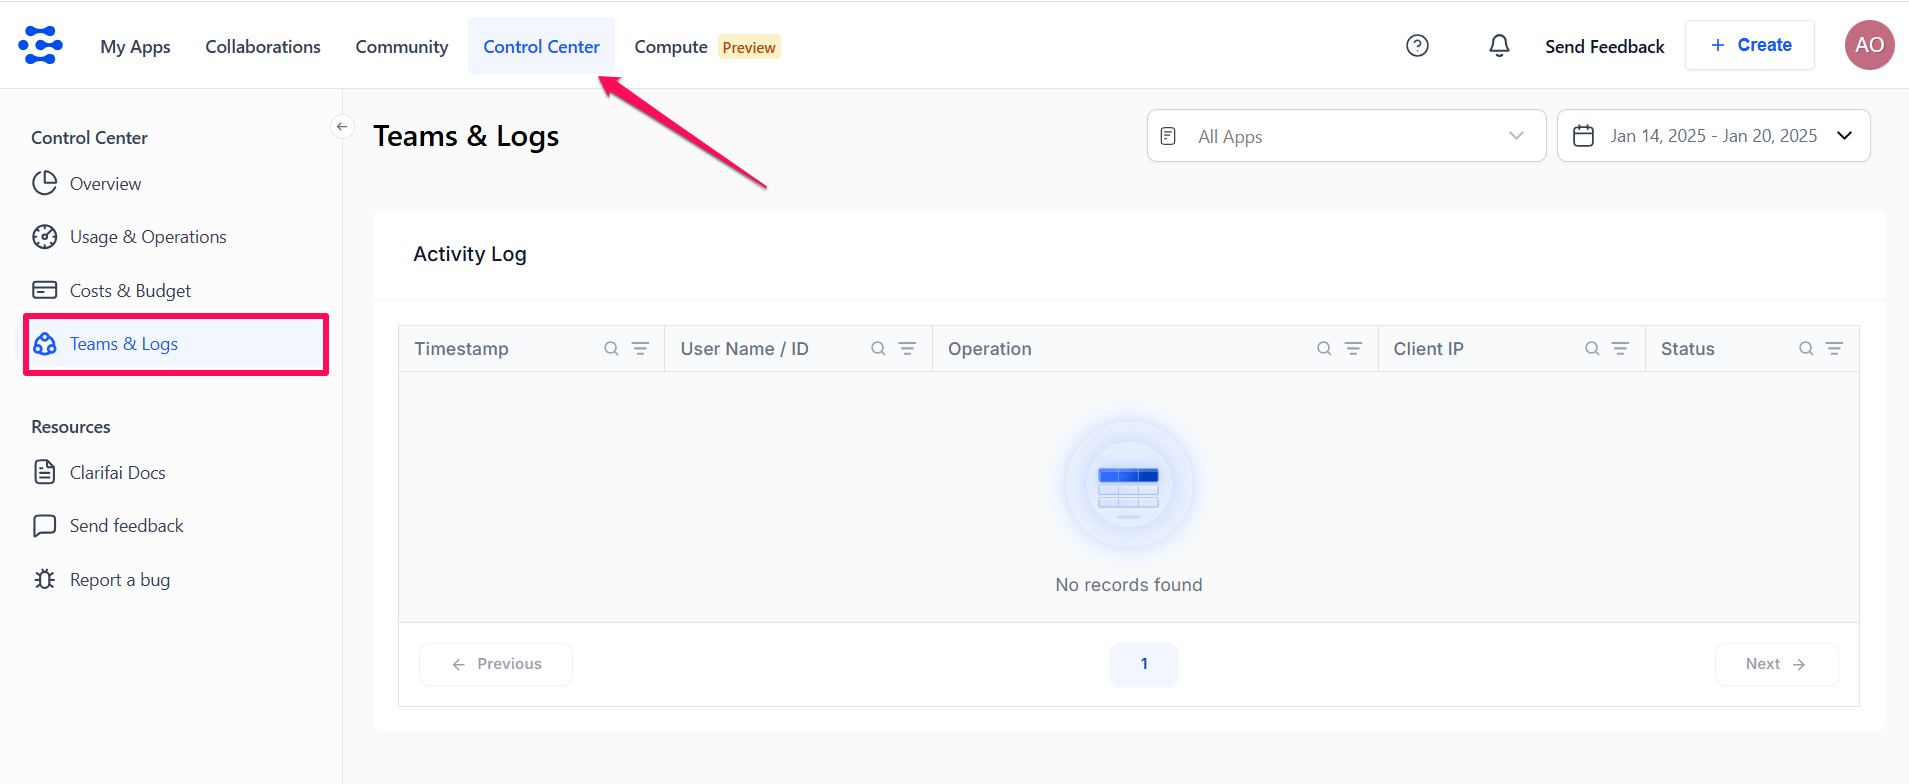
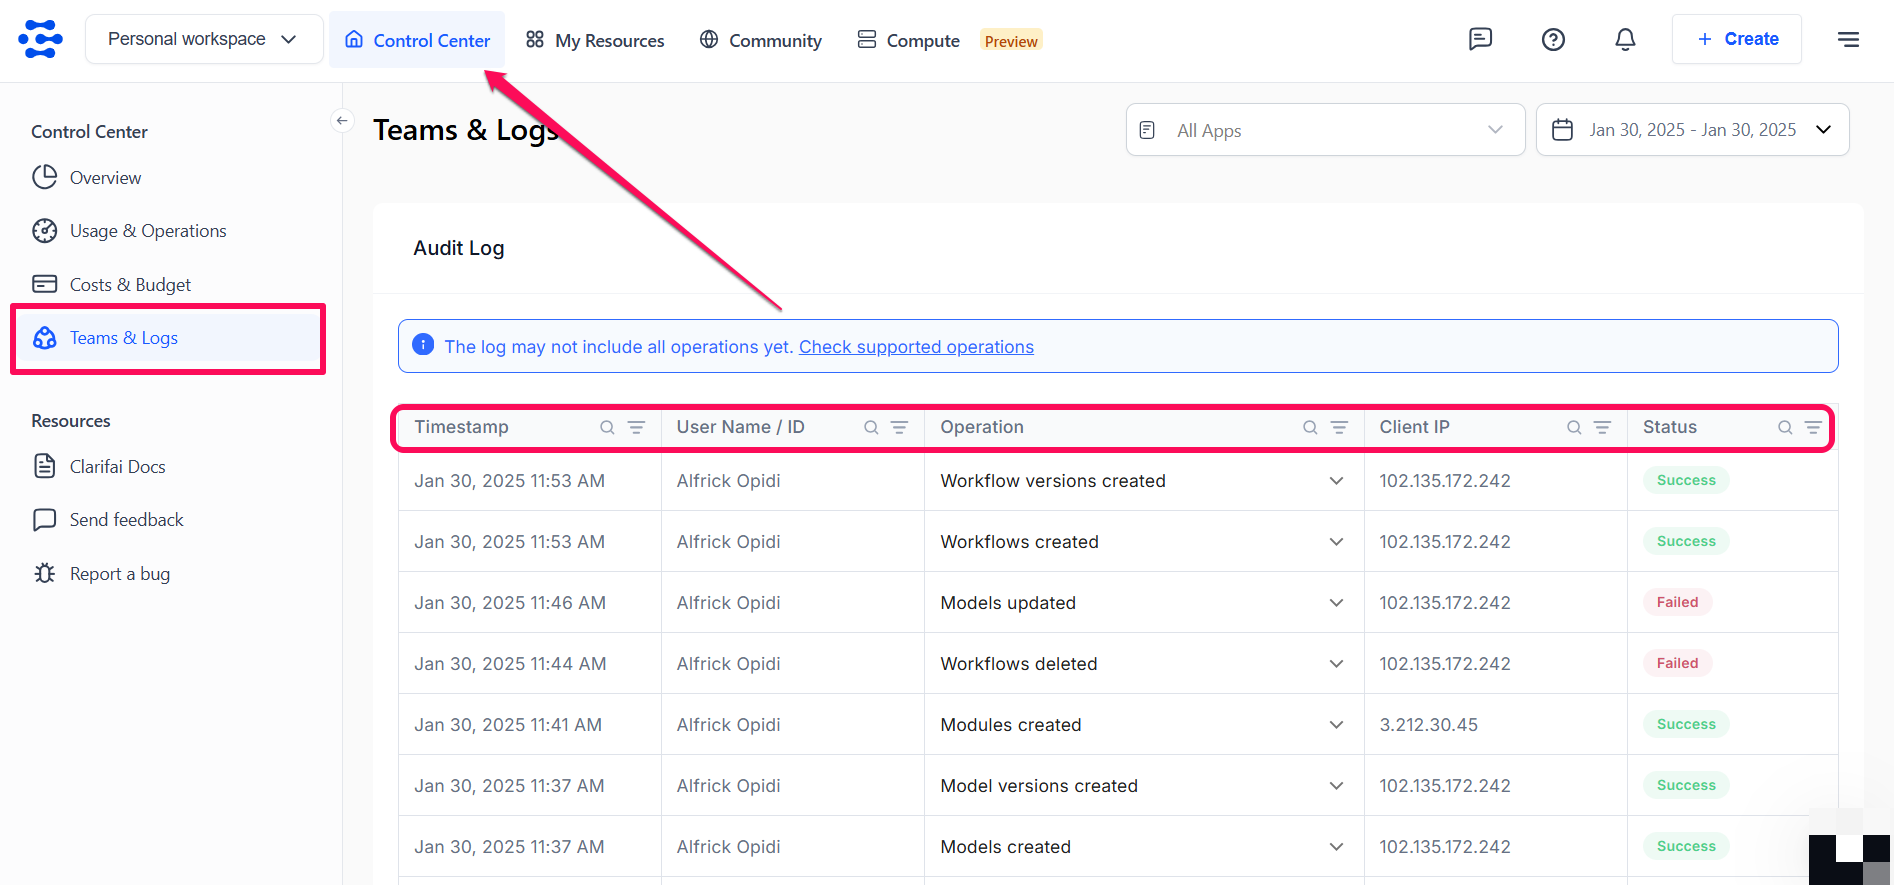
made updates

diff --git a/code_snippets/python-sdk/inference/visual_d_video.py b/code_snippets/python-sdk/inference/visual_d_video.py
@@ -6,9 +6,9 @@ from clarifai.client.model import Model
 USER_ID = "clarifai"
 APP_ID = "main"
 # Change these to whatever model and video URL you want to use
-MODEL_ID = "general-image-recognition"
+MODEL_ID = "general-image-detection"
 # You can also set a particular model version by specifying the  version ID
-# eg: MODEL_VERSION_ID = 'aa7f35c01e0642fda5cf400f543e7c40'
+# eg: MODEL_VERSION_ID = '1580bb1932594c93b7e2e04456af7c6f'
 
 VIDEO_URL = "https://samples.clarifai.com/beer.mp4"
 # Change this to configure the FPS rate (If it's not configured, it defaults to 1 FPS)
@@ -18,13 +18,13 @@ VIDEO_URL = "https://samples.clarifai.com/beer.mp4"
 SAMPLE_MS = 2000
 
 # Model class objects can be inititalised by providing its URL or also by defining respective user_id, app_id and model_id
-# eg: model = Model("https://clarifai.com/clarifai/main/models/general-image-recognition")
+# eg: model = Model("https://clarifai.com/clarifai/main/models/general-image-detection")
 
 
 model = Model(user_id="clarifai", app_id="main", model_id=MODEL_ID, pat="YOUR_PAT")
 output_config = {"sample_ms": SAMPLE_MS}  # Run inference every 2 seconds
 model_prediction = model.predict_by_url(
-    BEER_VIDEO_URL, input_type="video", output_config=output_config
+    VIDEO_URL, input_type="video", output_config=output_config
 )
 
 # The predict API gives flexibility to generate predictions for data provided through filepath, URL and bytes format.

diff --git a/docs/portal-guide/control-center/teams-logs.md b/docs/portal-guide/control-center/teams-logs.md
@@ -2,7 +2,7 @@
 description: Gain insights into platform activities with enhanced visibility, security, and governance
 pagination_next: null
 sidebar_position: 3
-draft: true
+unlisted: true
 ---
 
 # Teams & Logs Tab
@@ -14,16 +14,7 @@ The Teams & Logs tab allows you to monitor platform operations by capturing deta
 
 It provides the ability to assess user actions and resource changes, identify potential security issues, maintain comprehensive logs to meet regulatory requirements, and monitor request origins to troubleshoot failed operations effectively.  
 
-You can use the tab to track the following critical resource operations (_we're planning to support more resources in the future_):
-
-- **Organization and team membership activities** — Includes creating, updating, or deleting organizations and teams, sending invitations, and managing team users and applications.  
-- **Module activities** — Tracks the creation, updating, and deletion of modules. 
-- **Model activities** — Tracks actions such as creating, training, publishing, and deleting models.  
-- **Workflow activities** — Covers the creation, publishing, updating, and deletion of workflows.  
-- **Application activities** — Includes creating, updating, duplicating, and deleting applications.  
-- **Collaborator activities** — Includes adding collaborators, editing their scopes, and removing them. 
-
-:::note
+:::tip
 
 [Click here](https://docs.clarifai.com/api-guide/audit-log/) to learn how to perform audit tracking via the API. 
 
@@ -31,13 +22,25 @@ You can use the tab to track the following critical resource operations (_we're 
 
 :::info
 
-This feature is currently only available to users on our **Professional** and **Enterprise**  subscription [plans](https://www.clarifai.com/pricing). 
+This feature is currently only available to users on our Professional and Enterprise subscription [plans](https://www.clarifai.com/pricing). 
 
 :::
 
-<br/>
+## Supported Operations
 
-To access the tab, go to the Control Center and select the Teams & Logs option in the collapsible left sidebar.
+You can use the Teams & Logs tab to track the following critical resource operations (_we're planning to support more resources in the future_):
+
+- **Organization and team membership activities** — Includes creating, updating, or deleting organizations and teams, sending invitations, and managing team users and applications.  
+- **Collaborator activities** — Includes adding collaborators, editing their scopes, and removing them. 
+- **Application activities** — Includes creating, updating, duplicating, and deleting applications. 
+- **Model activities** — Tracks actions such as creating, training, publishing, and deleting models. 
+- **Workflow activities** — Covers the creation, publishing, updating, and deletion of workflows.  
+- **Module activities** — Tracks the creation, updating, and deletion of modules. 
+
+
+## Audit Log Details
+
+To access the tab, go to the Control Center and select the **Teams & Logs** option in the collapsible left sidebar.
 
 ![](/img/community/control-center/teams_logs_1.png)
 
@@ -45,17 +48,28 @@ You can get details of the following activity logs:
 
 - **When** — Timestamp of the operation.  
 - **Who** — Identity of the user performing the action.  
-- **What** — Description of the operation.  
+- **What** — Description of the operation. Note that if you 
 - **Where** — IP address where the request originated from.  
 - **Status** — Success or failure results of the operation.  
+
+## Filter by Apps 
 
 By default, the page displays activities across all your apps. You can customize the view by selecting specific app(s) using the dropdown menu in the upper-right corner.
 
 ![](/img/community/control-center/teams_logs_2.png)
 
-Additionally, you can filter and view data for specific time periods using the date range selector in the upper-right corner. If you click the tool, a calendar will drop down, which allows you to specify a date range to narrow down the activity logs. 
+## Filter by Dates
+
+You can filter and view data for specific time periods using the date range selector in the upper-right corner. If you click the tool, a calendar will drop down, which allows you to specify a date range to narrow down the activity logs. _Note that the current date is not selected by default._ 
 
 You can learn more about the date range tool [here](https://docs.clarifai.com/portal-guide/control-center/#date-ranges). 
 
 ![](/img/community/control-center/teams_logs_3.png)
 
+## Collapsible Operation Details
+
+The **Operation** column includes collapsible fields that allow you to expand or collapse details for each logged event. When expanded, the field reveals additional information about the specific action taken and the IDs of the resources impacted. 
+
+Conversely, when collapsed, only a summarized description of the operation is visible, helping to maintain a cleaner and more organized view of the logs. You can toggle this view by clicking the small arrow icon next to each operation entry.
+
+![](/img/community/control-center/teams_logs_4.png)

diff --git a/docs/portal-guide/clarifai-organizations/members-teams.md b/docs/portal-guide/clarifai-organizations/members-teams.md
@@ -36,7 +36,7 @@ On the dialog box that appears, enter the invitee’s email address and select a
 You can assign any of the following roles:
 
 - **Admin** — the invitee will have administrative privileges in the organization. 
-- **Financial Manager** — the invitee will have access to key financial data, including current spending based on the organization's pricing plan and budget settings, enabling better financial oversight and management.
+- **Financial Manager** — the invitee will have access to key financial data, including current spending based on the organization's pricing plan and budget settings, enabling better financial oversight and management. This role is only permitted to access the following tabs within the [Control Center](https://docs.clarifai.com/portal-guide/control-center/): Overview, Usage, and Costs. 
 - **Organization Contributor (all apps)** — the invitee will be able to contribute to all the apps within the organization, but without some admin privileges.. 
 - **Organization User (all apps)** — the invitee will have access privileges similar to those of an Organization Contributor for all apps, but with view-only permissions. 
 - **Team Contributor (select apps)** — the invitee will be available to contribute only to some selected applications.

diff --git a/docs/sdk/cli.md b/docs/sdk/cli.md
@@ -109,7 +109,7 @@ You can learn how to use the `run-locally`, `test-locally`, and `upload` command
 
 ## Login 
 
-To use the Clarifai CLI, you must first log in using a [Personal Access Token](https://docs.clarifai.com/clarifai-basics/authentication/personal-access-tokens) (PAT). This requires creating a YMAL login configuration file to securely store your credentials.
+To use the Clarifai CLI, you must first log in using a [Personal Access Token](https://docs.clarifai.com/clarifai-basics/authentication/personal-access-tokens) (PAT). This requires creating a YAML login configuration file to securely store your credentials.
 
 <Tabs>
 <TabItem value="yaml" label="YAML">
@@ -201,7 +201,7 @@ You can make predictions by using the `--model_url` argument, which specifies th
 
 ### Predict by a YAML file
 
-You can provide the instructions for generating predictions in a YMAL configuration file. 
+You can provide the instructions for generating predictions in a YAML configuration file. 
 
 Here is an example:
 

diff --git a/docs/sdk/compute-orchestration.md b/docs/sdk/compute-orchestration.md
@@ -31,7 +31,7 @@ These flexible capabilities support any compute instance — across various hard
 
 :::info Clarifai CLI
 
-Clarifai provides a user-friendly command line interface (CLI) that simplifies Compute Orchestration tasks. With the CLI, you can easily manage the infrastructure required for deploying and scaling machine learning models, even without extensive MLOps expertise.
+Clarifai provides a user-friendly [command line interface](https://docs.clarifai.com/sdk/cli/) (CLI) that simplifies Compute Orchestration tasks. With the CLI, you can easily manage the infrastructure required for deploying and scaling machine learning models, even without extensive MLOps expertise.
 This tool makes it easy to set up clusters, configure nodepools, and deploy models directly from the command line. You can follow its step-by-step tutorial provided [here](https://github.com/Clarifai/clarifai-python/blob/master/clarifai/cli/README.md).
 
 :::
